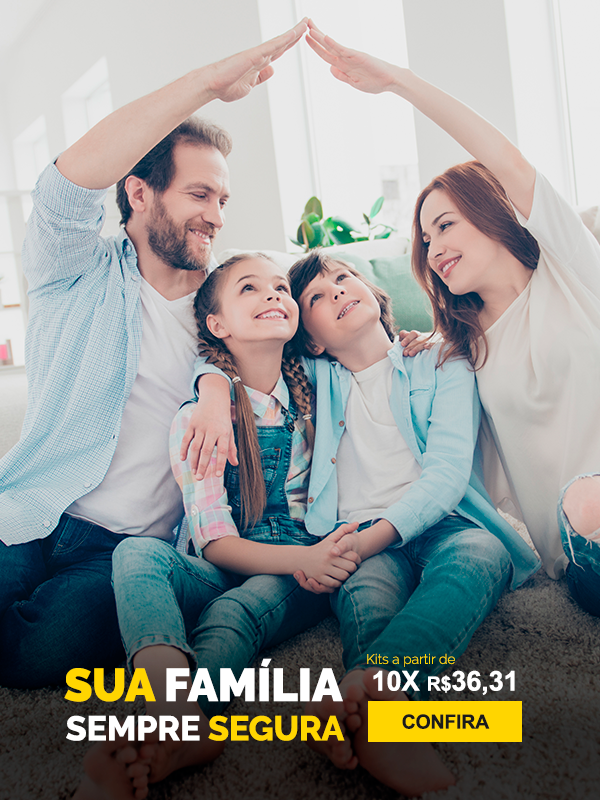
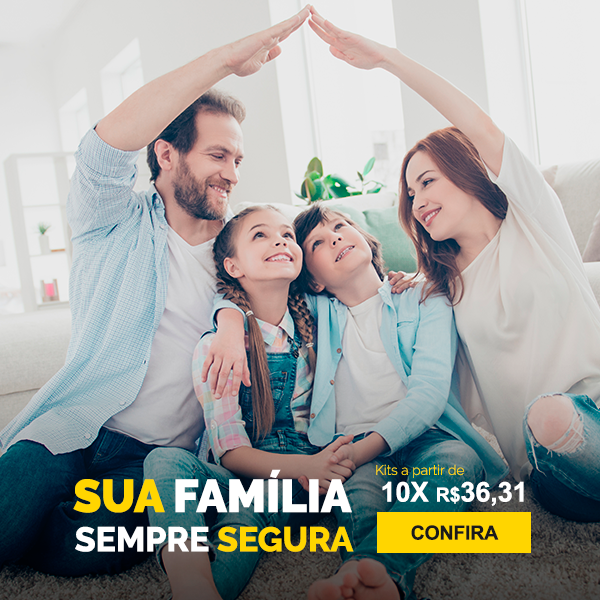
Email Marketing Fut

diff --git a/index-layout-novo-estilo.html b/index-layout-novo-estilo.html
@@ -31,7 +31,7 @@
           <div style="max-width:600px;width:100%"><a href="https://www.tudoforte.com.br/kit-cameras-de-seguranca-cftv"
               target="_blank"><img cellpadding="0" cellspacing="0"
                 alt="Sua Família Sempre Segura Kits a partir de 10X R$36,31"
-                style="display:block;border-radius:5px 5px 5px 5px;width:600px;height:800px;border-width:0px;border-style:solid"
+                style="display:block;border-radius:5px 5px 5px 5px;width:600px;height:600px;border-width:0px;border-style:solid"
                 src="img/banner-familia.png" class="CToWUd"> </a></div>
         </td>
       </tr>
